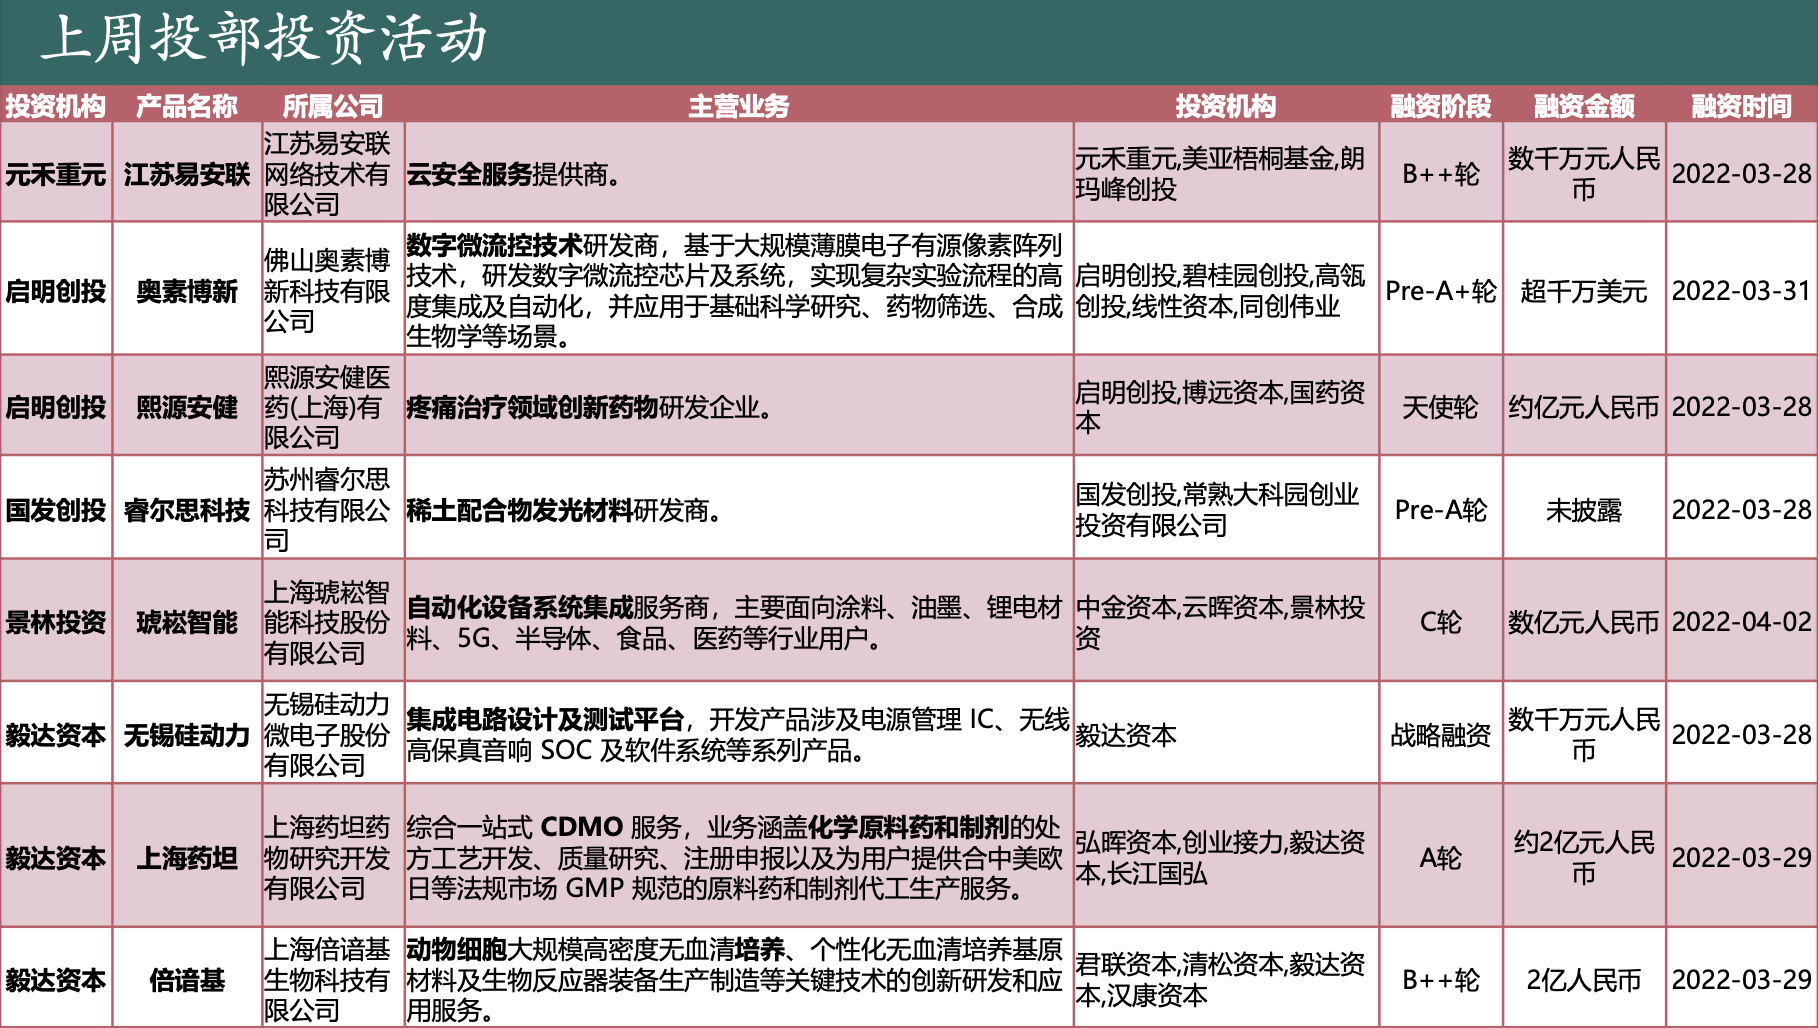
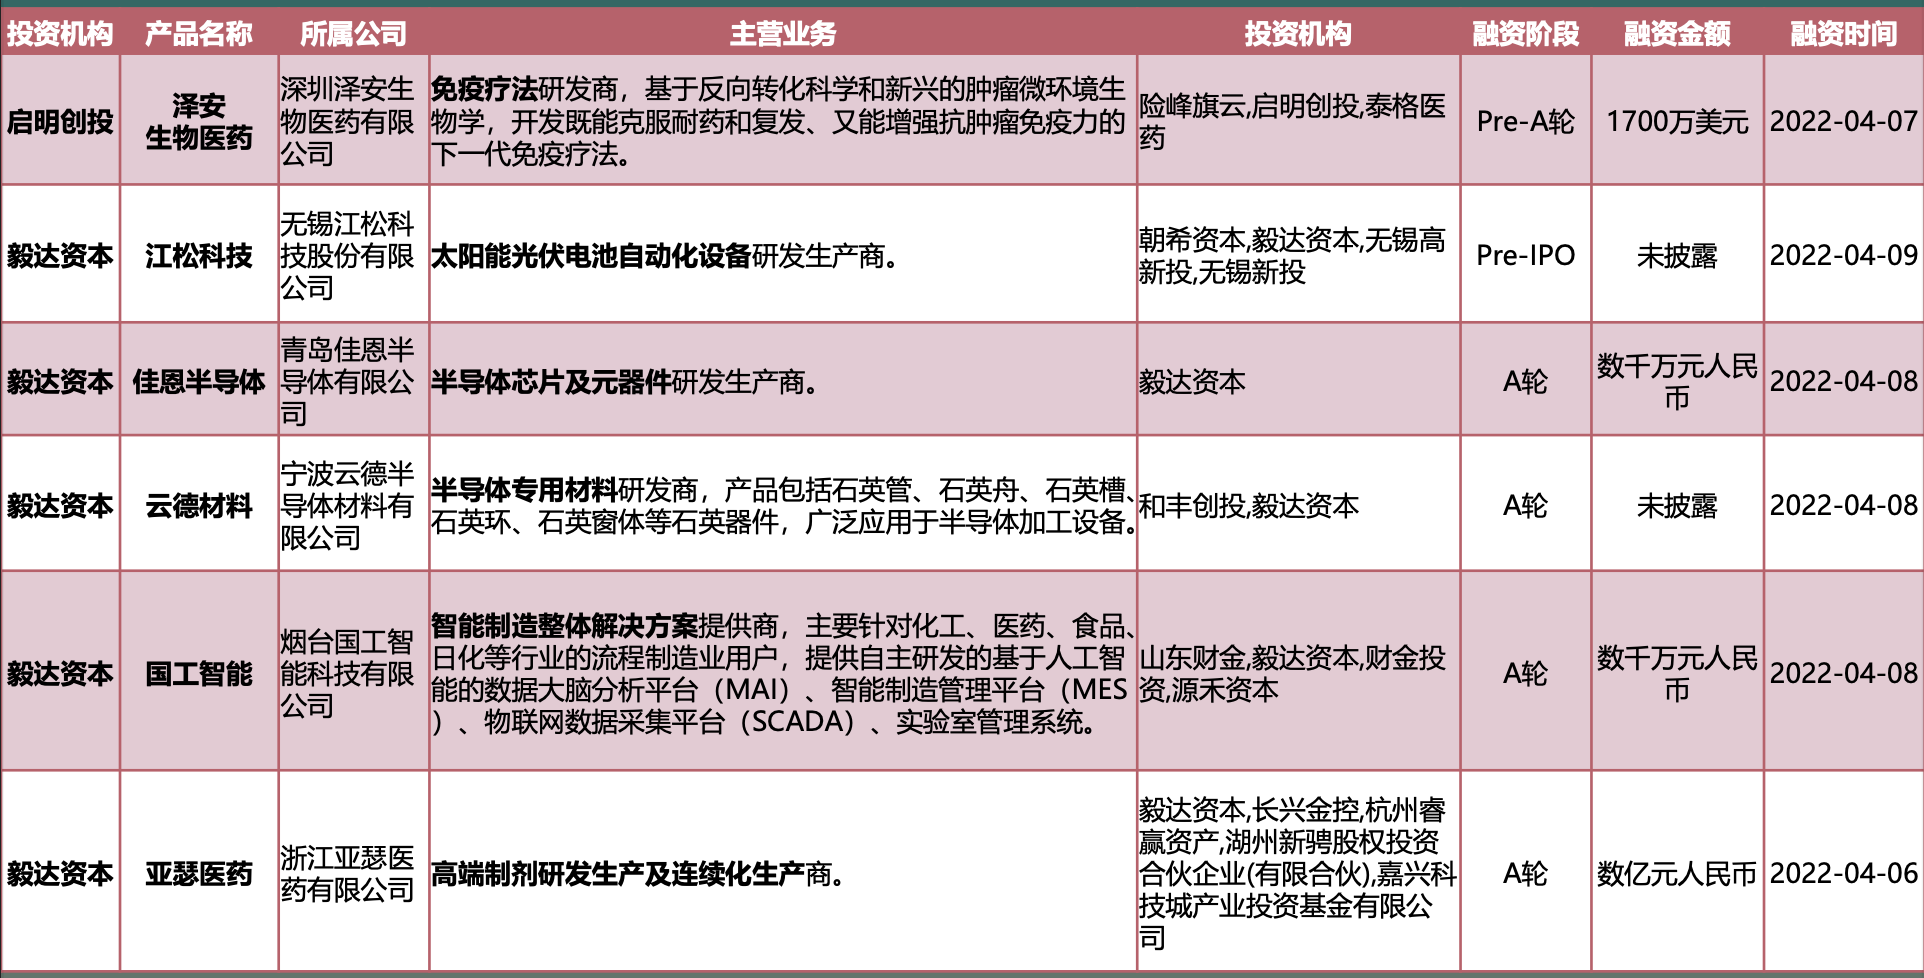
Update weekly fin info

diff --git a/fin-inv-zh.html b/fin-inv-zh.html
@@ -20,7 +20,7 @@
 <meta property="og:description" content="Weekly info about financing and investment activities｜一周投融资情报"/>
 <meta property="og:url" content="./fin-inv-zh.html"/>
 <meta property="og:type" content="article"/>
-<meta property="article:published_time" content="2022-04-06 15:30:00+08:00"/>
+<meta property="article:published_time" content="2022-04-24 14:43:00+08:00"/>
 <meta property="article:modified_time" content=""/>
 <meta property="article:author" content="./author/iris.html">
 <meta property="article:section" content="Info"/>
@@ -114,7 +114,7 @@
         <h1 class="fh5co-heading-colored">Financing & Investment</h1>
 
         <div>by
-                <a href="author/iris.html">Iris</a> - Wed, 06 Apr 2022
+                <a href="author/iris.html">Iris</a> - Sun, 24 Apr 2022
         </div>
 
             <div><span>Tags: </span>
@@ -124,12 +124,18 @@
             </div>
 
         <div class="animate-box" data-animate-effect="fadeInLeft">
-            <p class="animate-box" data-animate-effect="fadeInLeft"><p>Period: 2022/03/28 - 2022/04/03    </p>
+            <p class="animate-box" data-animate-effect="fadeInLeft"><p>Period: 2022/04/04 - 2022/04/17 (2 weeks)    </p>
+<h4>2022/04/04 - 2022/04/10</h4>
+<hr>
 <p><img alt="all_1" src="./images/all_1.png" width="100%">
-<img alt="all_2" src="./images/all_2.png" width="100%">
-<img alt="all_3" src="./images/all_3.png" width="100%"></p>
-<p><img alt="suzhou_1" src="./images/suzhou_1.png" width="100%">
-<img alt="suzhou_2" src="./images/suzhou_2.png" width="100%"></p>
+<img alt="all_2" src="./images/all_2.png" width="100%"></p>
+<p><img alt="suzhou_1" src="./images/suzhou_1.png" width="100%"></p>
+<h4>2022/04/11 - 2022/04/17</h4>
+<hr>
+<p><img alt="all_3" src="./images/all_3.png" width="100%">
+<img alt="all_4" src="./images/all_4.png" width="100%"></p>
+<p><img alt="suzhou_2" src="./images/suzhou_2.png" width="100%">
+<img alt="suzhou_3" src="./images/suzhou_3.png" width="100%"></p>
 <h2>投融资词云(2022年3月)</h2>
 <p><img alt="词云" src="./images/词云.png" width="80%"></p></p>
         </div>

diff --git a/author/iris.html b/author/iris.html
@@ -101,7 +101,7 @@
     <div class="blog-entry">
         <div class="desc">
             <h3><a href="../fin-inv-zh.html">Financing & Investment</a></h3>
-            <span><small>Wed, 06 Apr 2022</small></span>
+            <span><small>Sun, 24 Apr 2022</small></span>
             <span><small>by Iris</small> / <small>Info</small></span>
             <p><p>Weekly info about financing and investment activities｜一周投融资情报</p></p>
             <a href="../fin-inv-zh.html" class="btn btn-primary">Read more <i class="icon-arrow-right3"></i></a>

diff --git a/category/info.html b/category/info.html
@@ -100,7 +100,7 @@
     <div class="blog-entry">
         <div class="desc">
             <h3><a href="../fin-inv-zh.html">Financing & Investment</a></h3>
-            <span><small>Wed, 06 Apr 2022</small></span>
+            <span><small>Sun, 24 Apr 2022</small></span>
             <span><small>by Iris</small> / <small>Info</small></span>
             <p><p>Weekly info about financing and investment activities｜一周投融资情报</p></p>
             <a href="../fin-inv-zh.html" class="btn btn-primary">Read more <i class="icon-arrow-right3"></i></a>

diff --git a/tag/financing.html b/tag/financing.html
@@ -100,7 +100,7 @@
     <div class="blog-entry">
         <div class="desc">
             <h3><a href="../fin-inv-zh.html">Financing & Investment</a></h3>
-            <span><small>Wed, 06 Apr 2022</small></span>
+            <span><small>Sun, 24 Apr 2022</small></span>
             <span><small>by Iris</small> / <small>Info</small></span>
             <p><p>Weekly info about financing and investment activities｜一周投融资情报</p></p>
             <a href="../fin-inv-zh.html" class="btn btn-primary">Read more <i class="icon-arrow-right3"></i></a>

diff --git a/tag/investment.html b/tag/investment.html
@@ -100,7 +100,7 @@
     <div class="blog-entry">
         <div class="desc">
             <h3><a href="../fin-inv-zh.html">Financing & Investment</a></h3>
-            <span><small>Wed, 06 Apr 2022</small></span>
+            <span><small>Sun, 24 Apr 2022</small></span>
             <span><small>by Iris</small> / <small>Info</small></span>
             <p><p>Weekly info about financing and investment activities｜一周投融资情报</p></p>
             <a href="../fin-inv-zh.html" class="btn btn-primary">Read more <i class="icon-arrow-right3"></i></a>

diff --git a/tag/weekly-info.html b/tag/weekly-info.html
@@ -100,7 +100,7 @@
     <div class="blog-entry">
         <div class="desc">
             <h3><a href="../fin-inv-zh.html">Financing & Investment</a></h3>
-            <span><small>Wed, 06 Apr 2022</small></span>
+            <span><small>Sun, 24 Apr 2022</small></span>
             <span><small>by Iris</small> / <small>Info</small></span>
             <p><p>Weekly info about financing and investment activities｜一周投融资情报</p></p>
             <a href="../fin-inv-zh.html" class="btn btn-primary">Read more <i class="icon-arrow-right3"></i></a>

diff --git a/index.html b/index.html
@@ -163,7 +163,7 @@
     <div class="blog-entry">
         <div class="desc">
             <h3><a href="./fin-inv-zh.html">Financing & Investment</a></h3>
-            <span><small>Wed, 06 Apr 2022</small></span>
+            <span><small>Sun, 24 Apr 2022</small></span>
             <span><small>by Iris</small> / <small>Info</small></span>
             <p><p>Weekly info about financing and investment activities｜一周投融资情报</p></p>
             <a href="./fin-inv-zh.html" class="btn btn-primary">Read more <i class="icon-arrow-right3"></i></a>

diff --git a/archives.html b/archives.html
@@ -99,7 +99,7 @@
                 <div class="animate-box" data-animate-effect="fadeInLeft">
                     <a href="./fin-inv-zh.html"><h2>Financing & Investment</h2></a>
                     <div>by
-                            <a href="author/iris.html">Iris</a> - Wed, 06 Apr 2022
+                            <a href="author/iris.html">Iris</a> - Sun, 24 Apr 2022
                     </div>
                     <p>Weekly info about financing and investment activities｜一周投融资情报</p>
                 </div>
